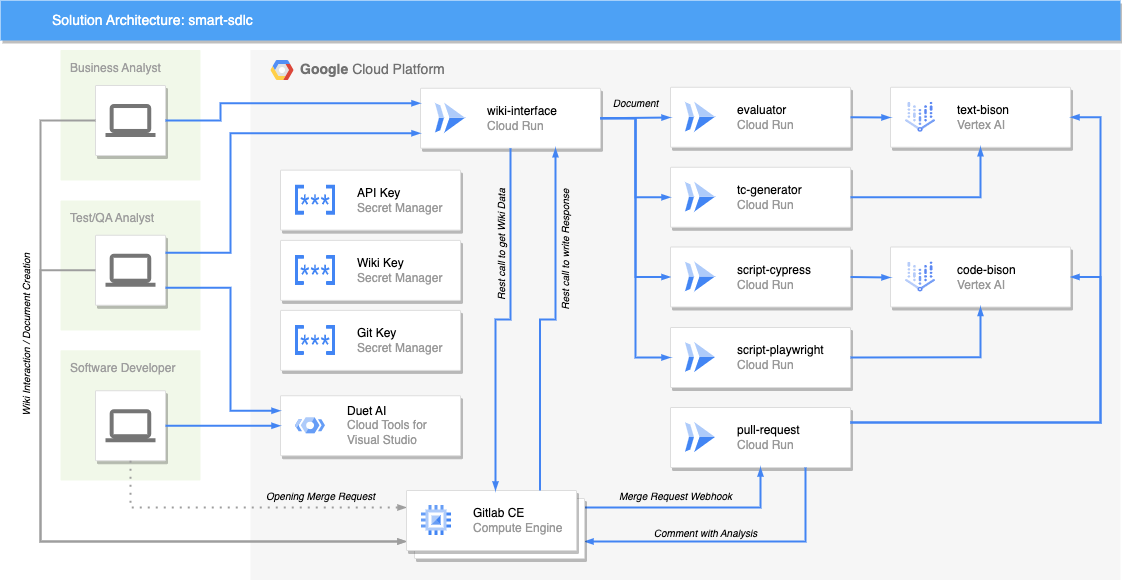
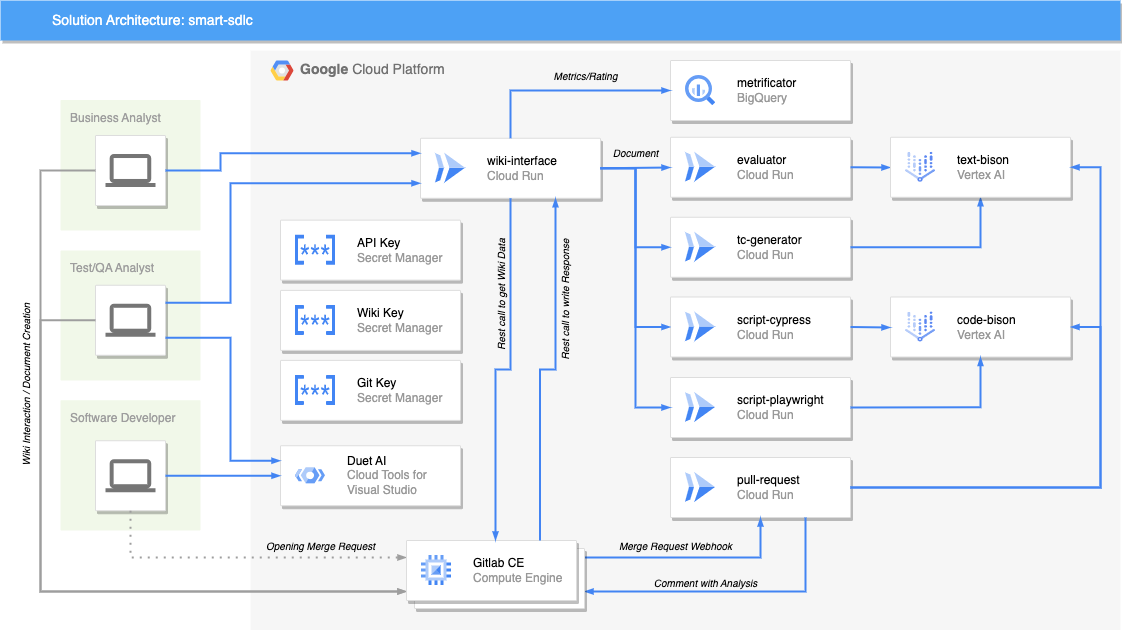
Gemini verbiage and diagram
Added Gemini verbiage and included a new diagram with Bigquery

diff --git a/README.md b/README.md
@@ -1,6 +1,6 @@
 # Overview
 
-This repository provides a tool set and a deployment guide showcasing the usage of Vertex API in a complete Software Development Life Cycle process, using Gitlab as the main Documentation and Source Code repository.  The solution showcases the User Story document evaluation, Test Case document creation based on User Story document, Test Script creation based on Test Case document, and also Code Changes review submitted to the repository.  
+This repository provides a tool set and a deployment guide showcasing the usage of **Vertex AI / Gemini** in a complete Software Development Life Cycle process, using Gitlab as the main Documentation and Source Code repository.  The solution showcases the User Story document evaluation, Test Case document creation based on User Story document, Test Script creation based on Test Case document, and also Code Changes review submitted to the repository.  
 This repository is organized in subprojects, each of them with its own detailed documentation on the setup and deployment.  
 Prompts for each of the components are provided in English and Brazilian Portuguese, and may be customized as needed.
 
@@ -10,7 +10,7 @@ The organization of the components on the platform is detailed below:
 
 ![smart-sdlc](img/architecture.png "Solution Architecture: smart-sdlc")
 
-As the diagram shows, the solution relies heavily on Google Cloud Run. There is also the presence of Secret Manager to hold few of the secrets necessary for integration between multiple components. Of course, we have Vertex AI APIs as well.
+As the diagram shows, the solution relies heavily on Google Cloud Run. There is also the presence of Secret Manager to hold few of the secrets necessary for integration between multiple components. Of course, we have Vertex AI APIs as well and a BigQuery to hold metrics and rating.
 
 | Component         | Details                                                                             |
 |:-----------------:|:------------------------------------------------------------------------------------|
@@ -22,8 +22,10 @@ As the diagram shows, the solution relies heavily on Google Cloud Run. There is 
 | pull-request      | Node.js Service that receives Webhook calls from Gitlab/Github and evaluates change |
 
 Each of the described components is built into its own container. Details for each of them are provided in their respective folders.  
+Although the diagram shows **Vertex AI** all the components **already have builtin Gemini support**. Check config file for details.   
 There are two main integration points to Gitlab, the **wiki-interface** component and the **pull-request** component.  
-The **wiki-interface** component is basically a HTML Form + Javascript that reads the Wiki Page list from Gitlab, and writes back to Gitlab the results. If you wish to integrate to any other system, you can use this component as an starting point.  
+The **wiki-interface** component is basically some HTML Form + Javascript that reads the Wiki Page list from Gitlab, and writes back to Gitlab the results. If you wish to integrate to any other system, you can use this component as an starting point.  
+The **wiki-interface** is also responsible for storing document generation metrics as well as result rating to **BigQuery**.  
 The **pull-request** component is a Rest service that receives Webhook calls and integrates to the Repository to read data and write feedback. As-is, this component supports Gitlab and Github.
 
 ## Personas
@@ -35,22 +37,22 @@ The proposed solution works with three different personas.
 * Business Analyst  
   Business Analyst writes user story and submits to Gitlab.  
   Business Analyst uses **wiki-integration** to execute an evaluation through **evaluator**.  
-  **evaluator** invokes **Vertex AI** with our prompt to get the results.  
+  **evaluator** invokes **Vertex AI / Gemini** with our prompt to get the results.  
   **wiki-integration** gets the result from **evaluator** and submits to **Gitlab Wiki**.
 
 * Test/QA Analyst  
   Test/QA Analyst reviews User Story document and submits to **tc-generator** using **wiki-integration**.
-  **tc-generator** uses Vertex AI to generate a Test Case document.  
+  **tc-generator** uses Vertex AI / Gemini to generate a Test Case document.  
   **wiki-integration** gets the results and submits to **Gitlab Wiki**.  
   Test/QA Analyst reviews Test Case document and using **wiki-integration** submits it to one of our **script** components.  
-  **script** component invokes **Vertex AI** to generate a Test Script in Cypress or Playwright.  
+  **script** component invokes **Vertex AI / Gemini** to generate a Test Script in Cypress or Playwright.  
   **wiki-integration** gets the result from **script** component and submits to **Gitlab Wiki**.  
   Test/QA Analyst reviews and adapts Test Script using **Duet AI** and saves final version.
 
 * Software Developer  
   Software Developer reviews User Story document and writes code with help of **Duet AI**.  
   Software Developer opens a Pull/Merge Request to **Gitlab**.  
-  **Gitlab** invokes our **Webhook** to evaluate the change proposed using **Vertex AI**.  
+  **Gitlab** invokes our **Webhook** to evaluate the change proposed using **Vertex AI / Gemini**.  
   **Webhook** comments back to the proposed review with change evaluation.  
 
 ## Gitlab
@@ -71,7 +73,7 @@ Each component of the solution has a deployment/installation guide on its subdir
 
 ## Documentation
 
-Each component of the solution has a README.md file with details about it.  
+Almost each component of the solution has a README.md file with details about it.  
 There is also a TLDR.md file on each component for those that are in a hurry.  
 
 ## Wiki Integration
